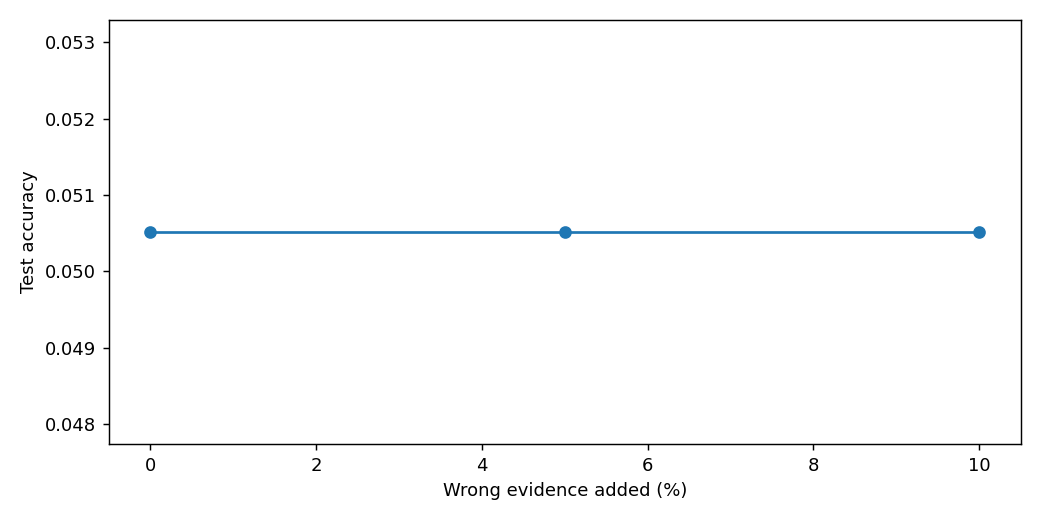
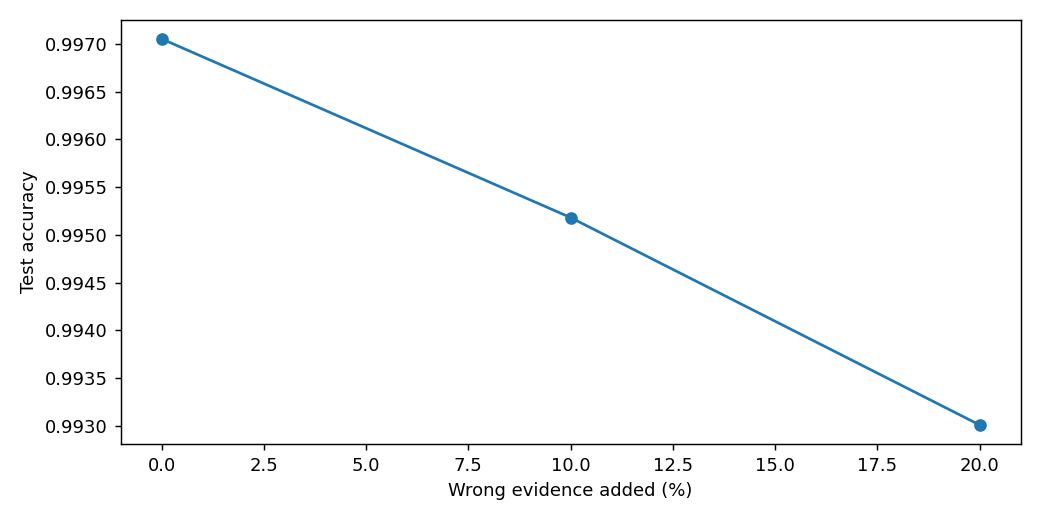
chore: regenerate DDXPlus artifacts and report after sparse-input fix

diff --git a/ml-service/tests/test_disease.py b/ml-service/tests/test_disease.py
@@ -43,7 +43,7 @@ def test_pipeline_report_schema_and_no_leakage():
     assert len(report["evaluation"]["confusion_matrix"]) == 49
     assert len(report["evaluation"]["per_class"]) == 49
     assert [x["percent_dropped"] for x in report["evaluation"]["robustness"]] == [0,10,20,30,40]
-    assert [x["percent_wrong_evidence"] for x in report["noise_robustness"][:3]] == [0,5,10]
+    assert [x["percent_wrong_evidence"] for x in report["noise_robustness"][:4]] == [0,10,20,30]
     assert len(report["explainability"]["global_importance"]) == 15
 
 def test_valid_prediction_contract(client):
